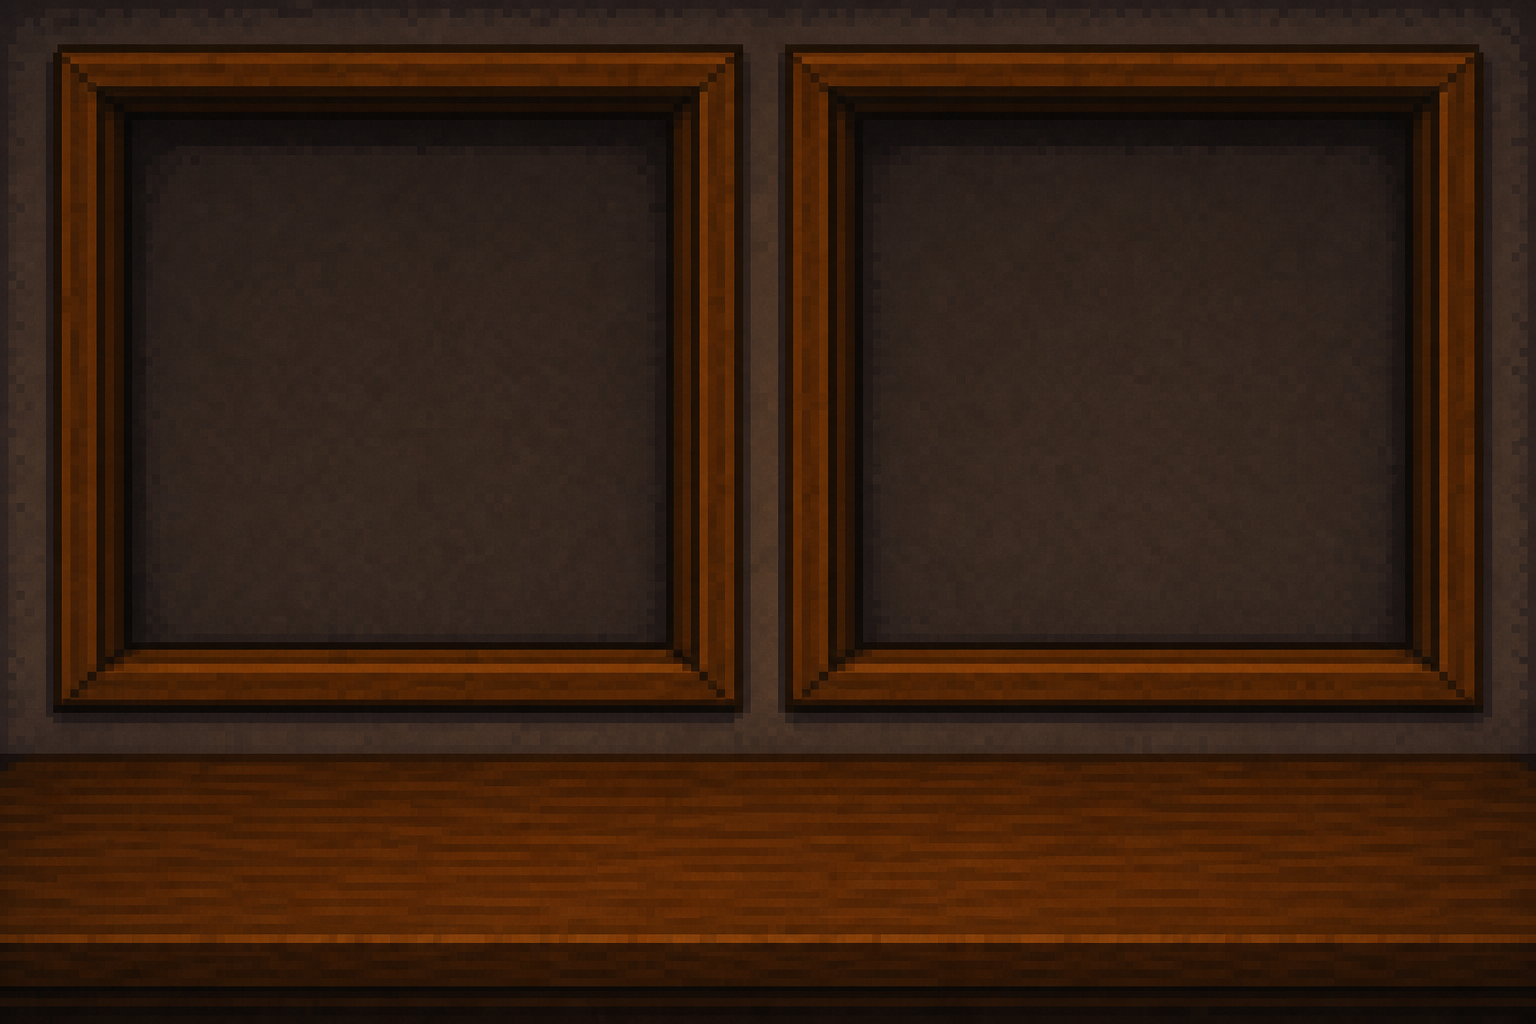
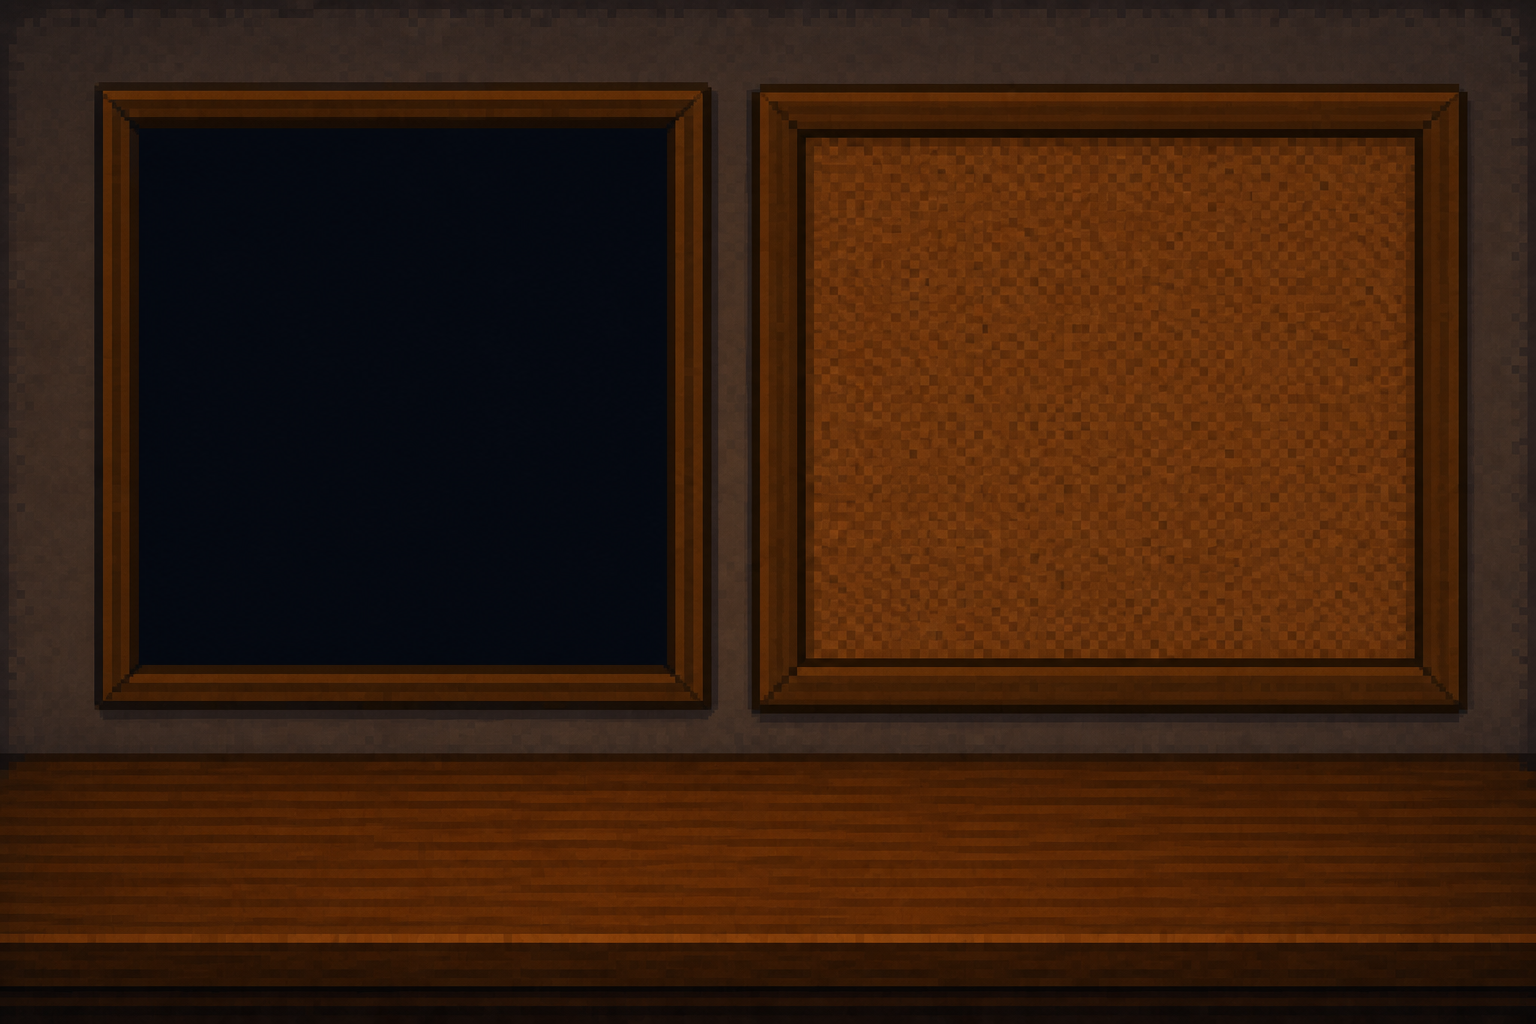
assets(desk): revise desk_bg recesses; add glass window_night draft
Differentiate window vs cork openings, horizontal desk grain notes in
docs, and draft a reflective night window sprite for layering.

diff --git a/docs/your-diary/27-desk-scene-layered-sprites.md b/docs/your-diary/27-desk-scene-layered-sprites.md
@@ -106,7 +106,16 @@ Z-order (아래→위):
 - 포맷: PNG-8/32 · **투명 배경**  
 - 스타일: 16-bit · 굵은 픽셀 · 그라데이션 없음 · 앰버 램프 / 네이비 밤 톤 일치  
 - 논리 캔버스: **480×320** (3:2) 기준 그리드에 맞춰 자르기  
-- 네이밍: `desk/{name}[@2x].png` → `mobile/assets/desk/`
+- 네이밍: `desk/{name}[@2x].png` → `mobile/assets/desk/`  
+- **AI 고해상도 초안은 톤·구도 참고용**. 구현 투입 전 **32~64px 타일 그리드**로 저해상도화·팔레트 고정 (용량 최소화).  
+- 책상 상판 나무결: **가로** 결 (세로 줄무늬 금지 · 레퍼런스와 통일)
+
+창 vs 코르크 (에셋이 달라도 `desk_bg` 자리부터 다르게):
+
+| | 자리(desk_bg) | 얹는 레이어 |
+|--|---------------|-------------|
+| 창문 | 왼쪽 · **얇은** 창틀 홈 | 유리·반사·하늘 (`window_*`) |
+| 코르크 | 오른쪽 · **코르크색 면** 홈 (동일 검은 액자 두 개 금지) | 오돌토돌 코르크 + 핀 슬롯 (`corkboard`) |
 
 | ID | 파일 | 내용 | 변형 |
 |----|------|------|------|
